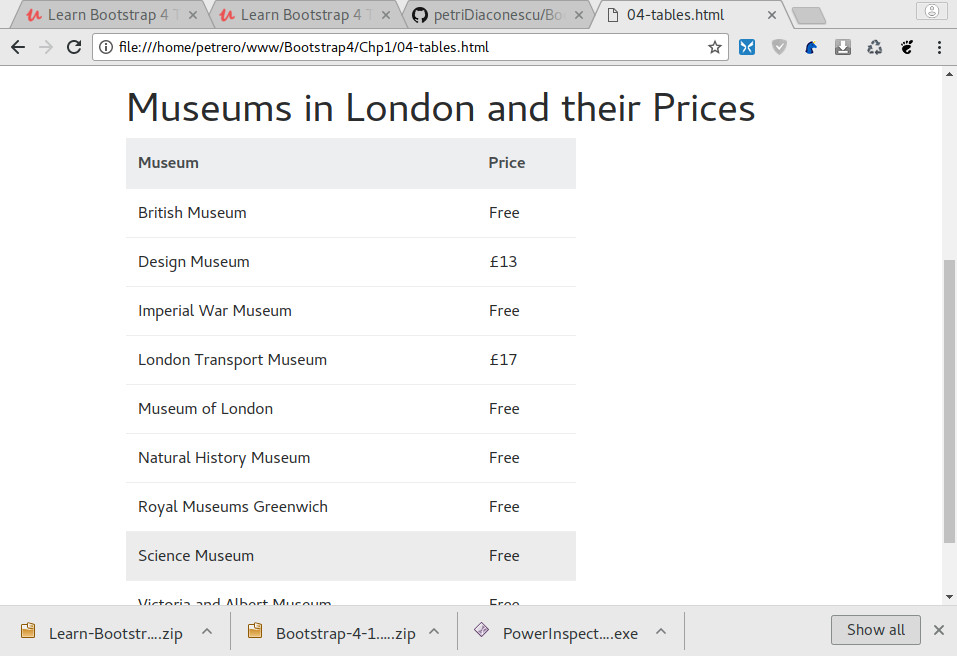
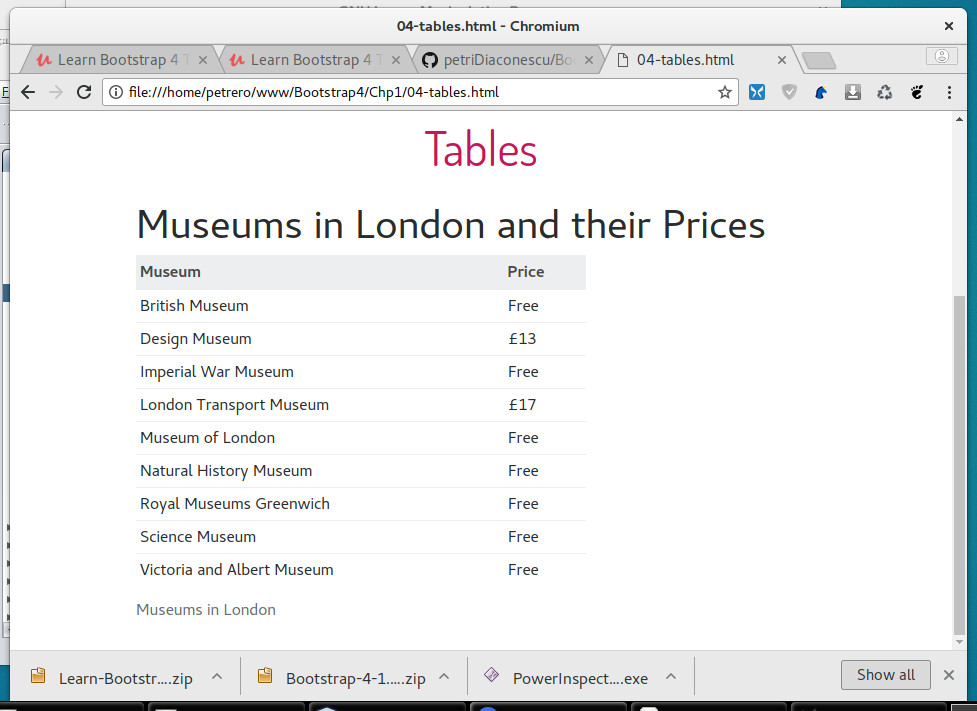
Make a smaller table with table-sm bootstrap class.

diff --git a/Chp1/04-tables.html b/Chp1/04-tables.html
@@ -28,7 +28,7 @@
         <h1>Museums in London and their Prices</h1>
         <div class="row">
           <div class="col-8">
-            <table class="table table-hover">
+            <table class="table table-sm">
                 <caption>Museums in London</caption>
                 <thead class="thead-default">
                   <tr>
